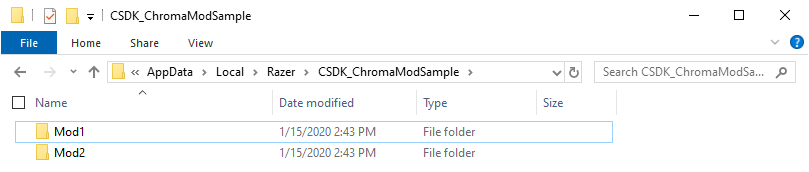
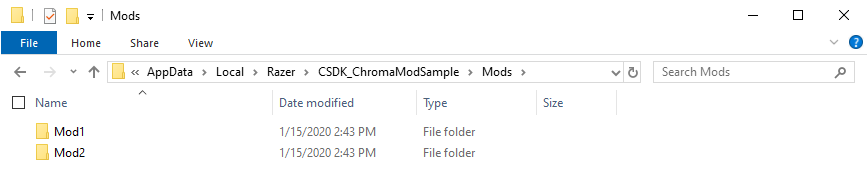
Put mods in a mods subfolder

diff --git a/CSDK_ChromaModSample.cpp b/CSDK_ChromaModSample.cpp
@@ -19,14 +19,20 @@ public:
 	{
 		return "Animations";
 	}
-	string GetAppModDirectory()
+	string GetAppDataDirectory()
 	{
 		char *pValue;
 		size_t len;
 		errno_t err = _dupenv_s(&pValue, &len, "APPDATA");
 		string path(pValue);
 		free(pValue);
-		path += "\\..\\Local\\Razer\\CSDK_ChromaModSample";
+		path += "\\..\\Local";
+		return path;
+	}
+	string GetAppModDirectory()
+	{
+		string path(GetAppDataDirectory());
+		path += "\\Razer\\CSDK_ChromaModSample\\Mods";
 		return path;
 	}
 	void DetectMods()
@@ -57,7 +63,25 @@ public:
 		}
 		else
 		{
-			filesystem::create_directory(GetAppModDirectory());
+			string path = GetAppDataDirectory();
+
+			path += "\\Razer";
+			if (!filesystem::exists(path))
+			{
+				filesystem::create_directory(path);
+			}
+
+			path += "\\CSDK_ChromaModSample";
+			if (!filesystem::exists(path))
+			{
+				filesystem::create_directory(path);
+			}
+
+			path += "\\Mods";
+			if (!filesystem::exists(path))
+			{
+				filesystem::create_directory(path);
+			}
 		}
 	}
 	vector<string> GetSkins()

diff --git a/README.md b/README.md
@@ -18,10 +18,10 @@ Mods are controlled using a directory naming convention described in the [setup]
 
 ## Setup
 
-Mod folders with custom Chroma animations can be placed within the application folder.
+Mod folders with custom Chroma animations can be placed within `Mods` subfolder of the application folder.
 
 ```
-%USERPROFILE%\AppData\Local\Razer\CSDK_ChromaModSample
+%USERPROFILE%\AppData\Local\Razer\CSDK_ChromaModSample\Mods
 ```
 
 ![image_2](images/image_2.png)
@@ -34,7 +34,7 @@ Two sample mods can be found in the `Animation` folder.
 Both mods can be unpacked within the application folder. Mods are detected when the application starts.
 
 ```
-%USERPROFILE%\AppData\Local\Razer\CSDK_ChromaModSample
+%USERPROFILE%\AppData\Local\Razer\CSDK_ChromaModSample\Mods
 ├───Mod1
 │   ├───Fighter
 │   ├───Paladin
